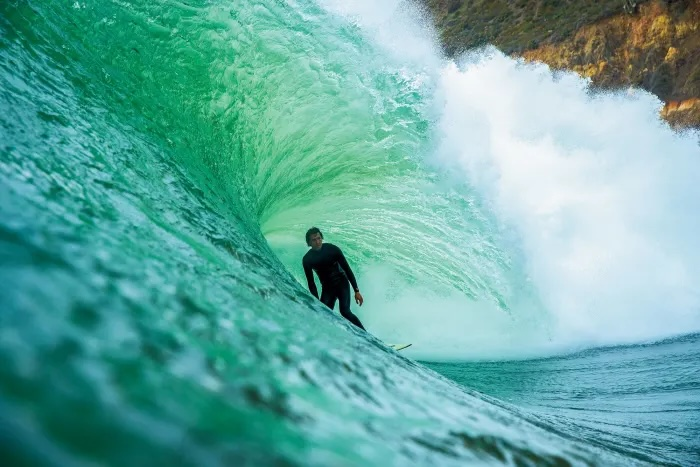
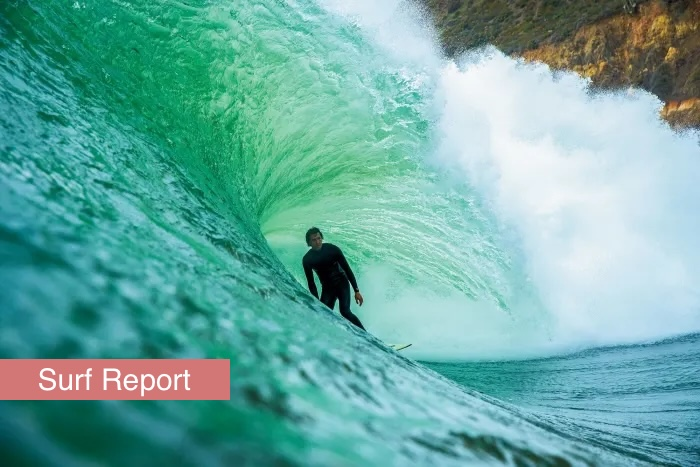
css input

Changed region(s): [[0.0, 0.7495, 0.33, 0.8694]]

diff --git a/index.html b/index.html
@@ -1,74 +1,82 @@
 <!DOCTYPE html>
 <html lang="en">
-<head>
-    <meta charset="UTF-8">
-    <meta name="viewport" content="width=device-width, initial-scale=1.0">
-    <link rel="stylesheet" href="./assets/style.css">
-    <link rel="stylesheet" href="./assets/reset.css">
-    <title>Document</title>
-</head>
-
-<header>
+  <head>
+    <meta charset="UTF-8" />
+    <meta name="viewport" content="width=device-width, initial-scale=1.0" />
+    <link rel="stylesheet" href="./assets/style.css" />
+    <link rel="stylesheet" href="./assets/reset.css" />
+    <title>JV Portfolio</title>
+  </head>
+ <body>
+    
+  <header>
     <h1>Jessica Vorderstasse</h1>
     <nav id="nav">
-        <ul>
-            <li><a href="#about">About</a></li>
-            <li><a href="#work">Work</a></li>
-            <li><a href="#contact">Contact Me</a></li>  
-        </ul>
+      <ul>
+        <li><a href="#about">About</a></li>
+        <li><a href="#work">Work</a></li>
+        <li><a href="#contact">Contact Me</a></li>
+      </ul>
     </nav>
-</header>
+  </header>
 
-<article id="about">
+  <article id="about">
     <h2>About Me</h2>
-    <img id="portrait" src="./assets/pictures/unnamed.png" alt="Jessica">
-    <p>I am an aspiring web developer who is currently undergoing a Coding Bootcamp. Throughout the last 10 years, I
-        have gained valuable skills and experience as a dog trainer and a data entry specialist, which I believe will be
-        highly beneficial in my future role as a web developer. My diverse background has provided me with a unique set
-        of skills that will complement my journey as a web developer. I am eager to apply my knowledge, adaptability,
-        attention to detail, and problem-solving abilities to create exceptional web experiences. I am confident that my
-        passion for learning and my dedication to excellence will contribute positively to any web development team I am
-        a part of.</p>
-    
-</article>
+    <img
+      id="portrait"
+      class="inline"
+      src="./assets/pictures/unnamed.png"
+      alt="Jessica"
+    />
+    <p class="inline">
+      I am an aspiring web developer who is currently undergoing a Full Stack
+      Development Bootcamp. Throughout the last 10 years, I have gained valuable
+      skills and experience as a dog trainer and a data entry specialist, which
+      I believe will be highly beneficial in my future role as a web developer.
+      My diverse background has provided me with a unique set of skills that
+      will complement my journey as a web developer. I am eager to apply my
+      knowledge, adaptability, attention to detail, and problem-solving
+      abilities to create exceptional web experiences. I am confident that my
+      passion for learning and my dedication to excellence will contribute
+      positively to any web development team I am a part of.
+    </p>
+  </article>
 
-<body>
+  <section>
     <h2 id="work">Work</h2>
-    <section class="section1">
-        <h3>Horiseon Portfolio</h3>
-        <a href="https://jlvstrasse.github.io/horiseon_portfolio/"><img src="./assets/pictures/Horiseon.jpg" alt="business_portfolio"></a>
-    </section>
 
-    <section>
-        <h3>Password Generator</h3>
-        <a href="https://jlvstrasse.github.io/password_generator/"><img src="./assets/pictures/password_generator.jpg" alt="password_generator"></a>
-    </section>
+    <ul class="projects">
+        <li><a href="https://jlvstrasse.github.io/horiseon_portfolio/"
+            ><img src="./assets/pictures/Horiseon.jpg" alt="business_portfolio"
+          /></a></li>
+    
+        <li><a id="password" href="https://jlvstrasse.github.io/password_generator/"
+          ><img
+            src="./assets/pictures/password_generator.jpg"
+            alt="password_generator"
+        /></a></li>
+    
+        <li><a href="./assets/pictures/LED-Wall.jpg"
+          ><img src="./assets/pictures/LED-Wall.jpg" alt="LED-Wall"
+        /></a></li>
+    
+        <li><a href="./assets/pictures/calculator.jpg"
+          ><img src="./assets/pictures/calculator.jpg" alt="Calculator"
+        /></a></li>
+    
+        <li><a href="./assets/pictures/surfer copy.jpg"
+            ><img src="./assets/pictures/surfer copy.jpg" alt="Surf Report"
+            /></a></li>
+    </ul>
+  </section>
 
-    <section>
-        <h3>LED Wall</h3>
-        <a href="./assets/pictures/LED-Wall.jpg"><img src="./assets/pictures/LED-Wall.jpg" alt="LED-Wall"></a>
-    </section>
-
-    <section>
-        <h3>Calculator</h3>
-        <a href="./assets/pictures/calculator.jpg"><img src="./assets/pictures/calculator.jpg" alt="Calculator"></a>
-    </section>
-
-    <section>
-        <h3>Surf Report</h3>
-        <a href="./assets/pictures/surfer copy.jpg"><img src="./assets/pictures/surfer copy.jpg" alt="Surf Report"></a>
-    </section>
-
-</body>
-
-
-<aside id="contact">
+  <footer id="contact">
     <h2>Contact Me</h2>
-    <h4>Email</h4>
-        <p>jlvstrasse@gmail.com</p>
-    <h4>Phone</h4>
-        <p>555-555-5555</p>
-    <h4>Github</h4>
-        <p>Jlvstrasse</p>
-</aside>
+    <p><b>Email:</b> jlvstrasse@gmail.com</p>
+
+    <p><b>Phone:</b> 555-555-5555</p>
+
+    <p><b>Github:</b> Jlvstrasse</p>
+  </footer>
+</body>
 </html>

diff --git a/assets/style.css b/assets/style.css
@@ -1,0 +1,152 @@
+:root {
+    --green: #B0C5A4;
+    --mauve: #D37676;
+    --tan: #EBC49F;
+    
+}
+
+* {
+    box-sizing: border-box;
+}
+
+img {
+    max-width: 100%;
+    display: block;
+}
+
+header {
+    display: flex;
+    flex-wrap: wrap;
+    justify-content: space-between;
+    background-color: var(--green);
+    margin: 0%;
+    color: white;
+    width: 100%;
+    padding: 15px;
+    align-items: flex-end;
+}
+
+header h1 {
+   font-size: 50px;
+   font-weight: lighter;
+   margin: 0;
+}
+
+#nav ul {
+    padding-left: 0;
+    list-style-type: none;
+    
+}
+
+@media only screen and (min-width:768px){
+    #nav ul {
+        display: flex;
+        flex-wrap: wrap;
+        gap: .5rem;
+        
+    }
+
+}
+
+#nav a:hover {
+    text-decoration: line-through;
+   
+
+}
+
+#nav a {
+    color: white;
+    font-size: 20px;
+    text-decoration: none;
+}
+
+#about h2 {
+    font-size: 30px;
+}
+
+#portrait {
+    display: inline-block;
+    height: 25%;
+    width: 15%;
+    padding: 15px;
+    
+}
+
+#about {
+    text-align: center;
+    margin: 2% 15%;
+    border-left: 5px solid var(--mauve);
+}
+
+#about p {
+    display: inline-block;
+    margin: 0% 10% 2% 10%;
+    font-size: 20px;
+}
+
+body {
+    text-align: center;
+}
+
+body h2 {
+    font-size: 30px;
+    margin-bottom: 10px;
+}
+
+
+ul.projects {
+    display: flex;
+    flex-wrap: wrap;
+    gap: 1rem;
+}
+
+.projects li {
+    flex: 1 1 600px;
+    list-style: none;
+}
+
+.projects a {
+    display: block;
+}
+
+.projects li:first-child {
+    
+    border-right: 5px solid var(--tan);
+    padding: 15px;
+    margin: 5%;
+    flex-basis: 70%
+}
+
+.projects li a {
+    padding: 3%;
+    
+}
+
+.projects li img {
+    width: 100%;
+    
+    
+}
+
+#password img {
+    border: 1px solid black;
+}
+
+#contact {
+    display: flex;
+    margin: 0%;
+    text-align: center;
+    justify-content: space-around;
+    background-color: #EBC49F;
+    align-items: center;
+    padding: 20px;
+}
+
+#contact h2 {
+    padding-top: 5px;
+}
+
+
+
+
+

diff --git a/assets/reset.css b/assets/reset.css
@@ -1,5 +1,6 @@
 * {
     font-family: "Book Antiqua", Palatino, "Palatino Linotype", "Palatino LT STD", Georgia, serif; 
     margin: 0;
- }
     
+ }
+ 
